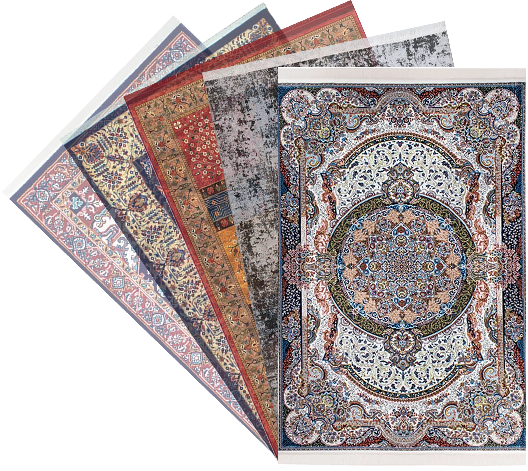
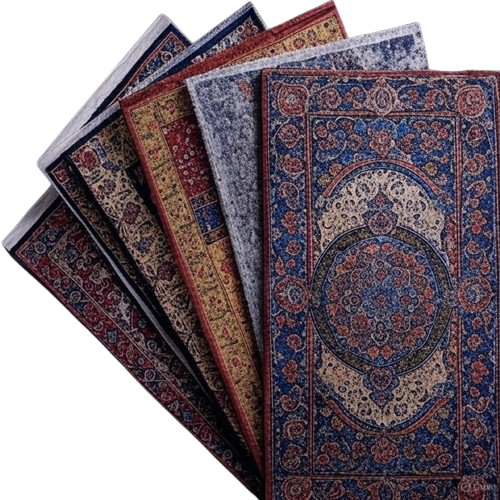
update image

diff --git a/Components/Header/NavTop.jsx b/Components/Header/NavTop.jsx
@@ -8,7 +8,7 @@ export default function NavTop({ openMobileOpen }) {
     <div className='w-full grid grid-cols-12'>
       {/* search */}
       <div className='col-span-7 lg:col-span-9 flex items-center gap-x-6'>
-        <span className='text-2xl text-[#CB1B1B] font-bold order-2 lg:order-1'>
+        <span className='text-[19px] sm:text-2xl text-[#CB1B1B] font-bold order-2 lg:order-1'>
           ایـــرانی فرش
         </span>
         <input

diff --git a/pages/404.jsx b/pages/404.jsx
@@ -6,7 +6,7 @@ export default function NotFoundPage() {
       <div className='w-full max-w-4xl text-center px-6 md:px-12 lg:px-0'>
         <div className='relative w-full'>
           <img
-            src='/404.png'
+            src='/image.jpg'
             alt='فرش گمشده'
             className='mx-auto w-full max-w-full h-[270px] lg:h-[550px] rounded-3xl shadow-xl object-center'
           />
